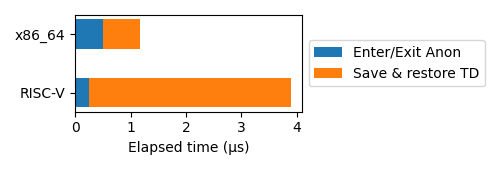
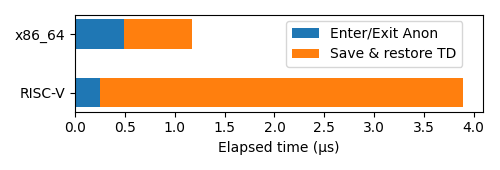
Updated figures

diff --git a/scripts/transitions.py b/scripts/transitions.py
@@ -2,10 +2,10 @@ import csv
 import numpy as np
 import matplotlib.pyplot as plt
 
-PATH = "../data-asplos/ubench/transitions.csv"
+PATH = "data-asplos/ubench/transitions.csv"
 
-save_as_pdf = "../figs/transitions.pdf"
-save_as_png = "../figs/transitions.png"
+save_as_pdf = "figs/transitions.pdf"
+save_as_png = "figs/transitions.png"
 
 raw = []
 null = []
@@ -54,7 +54,7 @@ for label, val in data.items():
     bottom += val
 
 # ax.set_title("TD switch")
-ax.legend(loc="center left", bbox_to_anchor=(1, 0.5))
+ax.legend(loc="center left", bbox_to_anchor=(0.5, 0.7))
 # ax.legend(loc='upper center', bbox_to_anchor=(0.5, -0.12), fancybox=False, ncol=3)
 ax.set_xlabel("Elapsed time (µs)")
 # plt.xticks(rotation=25, ha='right')
